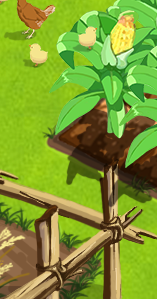
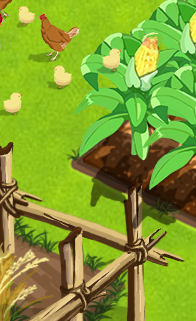
fix

diff --git a/dist/start.js b/dist/start.js
@@ -239,6 +239,12 @@ var entities;
             else if (type == 'Barrier13') {
                 _this.loadImage("res/img/barriers/barrier13.png", x, y, width, height);
             }
+            else if (type == 'Barrier14') {
+                _this.loadImage("res/img/barriers/barrier14.png", x, y, width, height);
+            }
+            else if (type == 'Pumpkin') {
+                _this.loadImage("res/img/plants/pumpkin/pumpkin1.png", x, y, width, height);
+            }
             return _this;
         }
         Barrier.COUNT = 20;
@@ -291,6 +297,7 @@ var entities;
         __extends(Map, _super);
         function Map() {
             var _this = _super.call(this) || this;
+            _this.visible = true;
             _this.loadImage("res/img/bg.png", 0, 0, Laya.Browser.clientWidth, Laya.Browser.clientHeight);
             return _this;
             /*
@@ -566,17 +573,17 @@ var BarriersData = [
     },
     {
         type: "Barrier3",
-        x: 330,
-        y: 392,
-        width: 157,
-        height: 299
+        x: 300,
+        y: 382,
+        width: 192,
+        height: 321
     },
     {
         type: "Barrier4",
         x: 395,
-        y: 472,
-        width: 395,
-        height: 129
+        y: 452,
+        width: 712,
+        height: 177
     },
     {
         type: "Barrier5",
@@ -615,17 +622,17 @@ var BarriersData = [
     },
     {
         type: "Barrier10",
-        x: 357,
-        y: 188,
-        width: 199,
-        height: 52
+        x: 341,
+        y: 139,
+        width: 271,
+        height: 203
     },
     {
         type: "Barrier11",
-        x: 601,
-        y: 278,
-        width: 255,
-        height: 212
+        x: 615,
+        y: 290,
+        width: 320,
+        height: 444
     },
     {
         type: "Barrier12",
@@ -640,6 +647,76 @@ var BarriersData = [
         y: 238,
         width: 250,
         height: 252
+    },
+    {
+        type: "Pumpkin",
+        x: 443,
+        y: 425,
+        width: 86,
+        height: 81
+    },
+    {
+        type: "Pumpkin",
+        x: 423,
+        y: 410,
+        width: 86,
+        height: 81
+    },
+    {
+        type: "Pumpkin",
+        x: 403,
+        y: 395,
+        width: 86,
+        height: 81
+    },
+    {
+        type: "Pumpkin",
+        x: 383,
+        y: 380,
+        width: 86,
+        height: 81
+    },
+    {
+        type: "Pumpkin",
+        x: 383,
+        y: 400,
+        width: 86,
+        height: 81
+    },
+    {
+        type: "Pumpkin",
+        x: 583,
+        y: 345,
+        width: 86,
+        height: 81
+    },
+    {
+        type: "Pumpkin",
+        x: 563,
+        y: 330,
+        width: 86,
+        height: 81
+    },
+    {
+        type: "Pumpkin",
+        x: 543,
+        y: 315,
+        width: 86,
+        height: 81
+    },
+    {
+        type: "Pumpkin",
+        x: 523,
+        y: 300,
+        width: 86,
+        height: 81
+    },
+    {
+        type: "Barrier14",
+        x: 533,
+        y: 240,
+        width: 407,
+        height: 229
     },
 ];
 var SpritesData = [
@@ -829,7 +906,7 @@ var GameMain = /** @class */ (function () {
     };
     GameMain.prototype.onMouseDown = function (parm) {
         var dx = Laya.stage.mouseX;
-        var dy = Laya.stage.mouseY;
+        var dy = Laya.stage.mouseY - this.player.height;
         if (this.barriers != undefined) {
             for (var i = 0; i < this.barriers.length; i++) {
                 var barrier = this.barriers[i];

diff --git a/src/start.ts b/src/start.ts
@@ -37,17 +37,17 @@ var BarriersData = [
     },    
     {
         type:"Barrier3",
-        x:330,
-        y:392,
-        width:157,
-        height:299
+        x:300,
+        y:382,
+        width:192,
+        height:321
     },   
     {
         type:"Barrier4",
         x:395,
-        y:472,
-        width:395,
-        height:129
+        y:452,
+        width:712,
+        height:177
     },   
     {
         type:"Barrier5",
@@ -86,17 +86,17 @@ var BarriersData = [
     },  
     {
         type:"Barrier10",
-        x:357,
-        y:188,
-        width:199,
-        height:52
+        x:341,
+        y:139,
+        width:271,
+        height:203
     },   
     {
         type:"Barrier11",
-        x:601,
-        y:278,
-        width:255,
-        height:212
+        x:615,
+        y:290,
+        width:320,
+        height:444
     },   
     {
         type:"Barrier12",
@@ -111,7 +111,77 @@ var BarriersData = [
         y:238,
         width:250,
         height:252
-    },                                    
+    }, 
+    {
+        type:"Pumpkin",
+        x:443,
+        y:425,
+        width:86,
+        height:81
+    },  
+    {
+        type:"Pumpkin",
+        x:423,
+        y:410,
+        width:86,
+        height:81
+    },   
+    {
+        type:"Pumpkin",
+        x:403,
+        y:395,
+        width:86,
+        height:81
+    },   
+    {
+        type:"Pumpkin",
+        x:383,
+        y:380,
+        width:86,
+        height:81
+    },   
+    {
+        type:"Pumpkin",
+        x:383,
+        y:400,
+        width:86,
+        height:81
+    },   
+    {
+        type:"Pumpkin",
+        x:583,
+        y:345,
+        width:86,
+        height:81
+    },  
+    {
+        type:"Pumpkin",
+        x:563,
+        y:330,
+        width:86,
+        height:81
+    },
+    {
+        type:"Pumpkin",
+        x:543,
+        y:315,
+        width:86,
+        height:81
+    },   
+    {
+        type:"Pumpkin",
+        x:523,
+        y:300,
+        width:86,
+        height:81
+    },     
+    {
+        type:"Barrier14",
+        x:533,
+        y:240,
+        width:407,
+        height:229
+    },                                                                     
 ];
 
 var SpritesData = [
@@ -341,7 +411,7 @@ class GameMain{
     onMouseDown(parm) {
         
         var dx:number = Laya.stage.mouseX;
-        var dy:number = Laya.stage.mouseY;
+        var dy:number = Laya.stage.mouseY - this.player.height;
         if(this.barriers != undefined) {
             for(var i=0;i<this.barriers.length;i++) {
                 var barrier = this.barriers[i];

diff --git a/src/entities/Barrier.ts b/src/entities/Barrier.ts
@@ -55,7 +55,13 @@ module entities{
 			}	
 			else if(type == 'Barrier13') {
 				this.loadImage("res/img/barriers/barrier13.png",x,y,width,height);
-			}																												
+			}	
+			else if(type == 'Barrier14') {
+				this.loadImage("res/img/barriers/barrier14.png",x,y,width,height);
+			}				
+			else if(type == 'Pumpkin')	{
+				this.loadImage("res/img/plants/pumpkin/pumpkin1.png",x,y,width,height);
+			}																										
 		}
 	}
 }

diff --git a/src/entities/Map.ts b/src/entities/Map.ts
@@ -5,6 +5,7 @@ module entities {
 	export class Map extends Laya.Sprite{
 		constructor(){
 			super();
+			this.visible = true;
 			this.loadImage("res/img/bg.png",0,0,Laya.Browser.clientWidth,Laya.Browser.clientHeight);
 			/*
 			if(Laya.Browser.clientWidth < Laya.Browser.clientHeight) {
